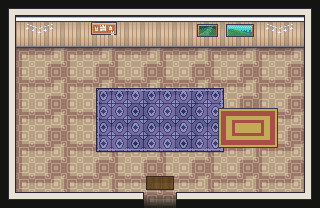
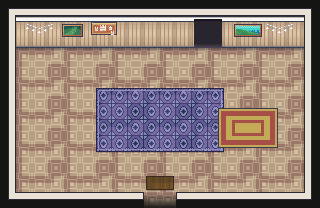
恢复我的房间在入口厅楼上的结构；玻璃门开门不再冒出墙顶，门后显示幽暗门洞

Changed region(s): [[0.5938, 0.0865, 0.8438, 0.2308], [0.1875, 0.1154, 0.2812, 0.2019]]

diff --git a/frontend/components/chatworld/lobby/chat-lobby.tsx b/frontend/components/chatworld/lobby/chat-lobby.tsx
@@ -17,9 +17,9 @@ type Phase = "loading" | "ready" | "error";
 
 /** 每个房间的一句话引导 */
 const ROOM_GUIDES: Record<string, string> = {
-  foyer: "入口厅 · 穿过下方的门进入大厅",
-  room: "我的房间 · 站到衣柜前的地台上按 E 换形象、改名字，下方出口回大厅",
-  hall: "大厅 · 上方两扇玻璃门：左通我的房间、右回入口厅；ASR / OCR 地台与圆桌地毯上按 E 使用",
+  foyer: "入口厅 · 下方出口通往大厅，电梯右侧的玻璃门通往我的房间",
+  room: "我的房间 · 站到衣柜前的地台上按 E 换形象、改名字，下方出口回入口厅",
+  hall: "大厅 · ASR / OCR 机器前的地台、圆桌地毯上按 E 使用",
 };
 
 /** 在「我的房间」衣柜前交互时打开形象面板，其余机器打开功能面板 */

diff --git a/scripts/build_chat_lobby_assets.py b/scripts/build_chat_lobby_assets.py
@@ -229,8 +229,11 @@ def build_anims() -> None:
             # 自动门：靠近时播放 open 帧序列，离开时播放 close 帧序列
             a[key]["door"] = door
 
-    add("door_glass", load(ANIM_DIR + "animated_door_glass_double.png"), 32, 48, 14,
-        door={"open": [0, 1, 2, 3, 4], "close": [5, 6, 7, 0]})
+    # 玻璃双开门：开门时门扇向上收起；原图开门帧的门扇会冒出墙顶，按关门状态的上沿（y=19）裁掉其上方像素，
+    # 门扇看起来是收进门楣
+    door = load(ANIM_DIR + "animated_door_glass_double.png").copy()
+    door.paste((0, 0, 0, 0), (0, 0, door.width, DOOR_TOP))
+    add("door_glass", door, 32, 48, 14, door={"open": [0, 1, 2, 3, 4], "close": [5, 6, 7, 0]})
     add("elevator", load(ANIM_DIR + "animated_elevator_door_entrance_1.png"), 32, 32, 10)
     add("receptionist", load(ANIM_DIR + "animated_receptionist.png"), 16, 32, 5)
     add("monitor", load(ANIM_DIR + "animated_control_room_facebook_scrolling.png"), 16, 32, 4)
@@ -255,6 +258,7 @@ def build_anims() -> None:
 # ---------------------------------------------------------------- 房间绘制
 
 VOID = (20, 20, 19, 255)          # 与页面背景 #141413 一致，房间外融入舞台
+DOOR_TOP = 19                     # 玻璃双开门关门时的上沿（门贴图内 y）
 OUTLINE = (43, 40, 52, 255)       # 墙顶描边
 CAP = (233, 226, 212, 255)        # 墙顶（俯视看到的墙厚）
 SHADOW = (24, 18, 30)
@@ -373,6 +377,17 @@ class Room:
         if inner:
             d.ellipse((x0 + 3, y0 + 3, x1 - 4, y1 - 4), outline=(*inner, 255))
 
+    def door_recess(self, x: int, y: int = 0) -> None:
+        """上墙玻璃门背后的门洞：门打开后看到的是幽暗的通道而不是墙面。
+        门贴图 32x48 放在 (x, y)，两侧门框各 2px，门洞取门框之间、关门上沿以下的区域。"""
+        x0, y0, x1, y1 = x + 2, y + DOOR_TOP, x + 30, y + 48
+        d = ImageDraw.Draw(self.bg)
+        d.rectangle((x0, y0, x1 - 1, y1 - 1), fill=(40, 37, 46, 255))
+        # 门楣投影：上沿两行更暗；底部几行略亮，暗示门外的地面
+        d.rectangle((x0, y0, x1 - 1, y0 + 1), fill=(24, 22, 28, 255))
+        for i, color in enumerate(((50, 46, 56), (58, 54, 64), (66, 61, 72), (72, 67, 78))):
+            d.line((x0, y1 - 4 + i, x1 - 1, y1 - 4 + i), fill=(*color, 255))
+
     def decal(self, key: str, x: int, y: int) -> None:
         self.bg.alpha_composite(DECALS[key], (x, y))
 
@@ -442,18 +457,22 @@ def t(n: float) -> int:
 
 
 def build_foyer() -> Room:
-    """入口厅（电梯厅）：电梯进入，前台接待，右侧等候区，下墙中间开口通往大厅。"""
+    """入口厅（电梯厅）：电梯进入，前台接待，右侧等候区，下墙中间开口通往大厅；
+    上墙电梯右侧玻璃门通往楼上「我的房间」（房间下方出口出来即回到这扇门下）。"""
     room = Room("foyer", "入口厅", 20, 13, floor_tex(4, 8), wall_tex(1, 26))
     exit_x0, exit_x1 = t(9), t(11)
     room.bottom_openings.append((exit_x0, exit_x1))
+    room_door_x = t(12)
+    room.top_openings.append((room_door_x + 4, room_door_x + 28))
     room.draw_shell()
     w, h = room.w, room.h
 
     # 墙面挂饰
     room.decal("string_lights", t(1.5), 18)
     room.decal("cork_board", t(5.5), 22)
-    room.decal("painting_forest", t(12) + 5, 24)
-    room.decal("painting_aqua", t(14) + 2, 24)
+    # 两幅挂画让出电梯右侧的门位：森林挂到软木板左侧，海景挂到门与彩灯之间
+    room.decal("painting_forest", 62, 24)
+    room.decal("painting_aqua", 234, 24)
     room.decal("string_lights", t(16.5), 18)
     # 地毯：中央迎宾毯 + 等候区 + 出口地垫
     room.rug((t(6), t(5.5), t(14), t(9.5)), floor_tex(8, 20), edge=(40, 36, 70), inner=(150, 140, 200))
@@ -491,10 +510,17 @@ def build_foyer() -> Room:
     room.signs.append({"x": (exit_x0 + exit_x1) // 2, "y": h - 54, "text": "大厅", "tone": "muted"})
     room.portals.append({"rect": [exit_x0, h - 10, exit_x1 - exit_x0, 10], "to": "hall", "spawn": "fromFoyer"})
 
+    # 上墙玻璃门：通往「我的房间」，门上标牌 + 门内向上箭头，走近自动开门
+    room.door_recess(room_door_x)
+    room.doors.append({"key": "door_glass", "x": room_door_x, "y": 0, "radius": 40})
+    room.portals.append({"rect": [room_door_x + 6, 22, 20, 20], "to": "room", "spawn": "fromFoyer"})
+    room.signs.append({"x": room_door_x + 16, "y": 8, "text": "我的房间", "tone": "muted"})
+    room.anim("arrow_up", room_door_x + 8, 50, depth=h + 100)
 
     room.spawns["start"] = {"x": t(10), "y": t(3) + 10, "dir": "down"}
     # 回到入口厅时站在出口标牌与箭头之外，避免标牌压在角色头上
     room.spawns["fromHall"] = {"x": t(10), "y": h - 62, "dir": "up"}
+    room.spawns["fromRoom"] = {"x": room_door_x + 16, "y": 96, "dir": "down"}
     room.build_walls()
     return room
 
@@ -514,39 +540,32 @@ def workstation(room: Room, x: int, y: int, accessory: str) -> None:
 
 
 def build_hall() -> Room:
-    """大厅：上墙中间玻璃门回入口厅，其左侧同款玻璃门通往「我的房间」；左上 4 工位，右上 ASR / OCR 两台机器，
-    右侧圆桌聊天角（聊天室），左下休息区，右下游戏角。"""
+    """大厅：上墙中间玻璃门入口；左上 4 工位，右上 ASR / OCR 两台机器，右侧圆桌聊天角（聊天室），左下休息区，右下游戏角。"""
     room = Room("hall", "大厅", 36, 24, floor_tex(4, 12), wall_tex(23, 24))
     door_x = t(17)
-    room_door_x = door_x - 44
     room.top_openings.append((door_x + 4, door_x + 28))
-    room.top_openings.append((room_door_x + 4, room_door_x + 28))
     room.draw_shell()
     w, h = room.w, room.h
 
     # ---- 上墙挂饰
     room.decal("window_curtain", t(3.5), 18)
     room.decal("world_map", t(7), 16)
-    # 窗与软木板略微左移，给「我的房间」门让位
-    room.decal("window_curtain", t(10) - 4, 18)
-    room.decal("cork_board", t(12) + 2, 22)
+    room.decal("window_curtain", t(10), 18)
+    room.decal("cork_board", t(13), 22)
 
     # ---- 入口：玻璃双开门 + 红色迎宾长毯 + 两侧绿植
+    room.door_recess(door_x)
     room.doors.append({"key": "door_glass", "x": door_x, "y": 0, "radius": 40})
     room.portals.append({"rect": [door_x + 6, 22, 20, 20], "to": "foyer", "spawn": "fromHall"})
     room.rug((door_x + 2, 48, door_x + 30, t(13)), floor_tex(4, 14), edge=(70, 30, 30), inner=(214, 160, 90))
+    room.prop("plant_tall2", door_x - 18, 16, foot=12)
     room.prop("plant_tall2", door_x + 34, 16, foot=12)
-
-    # 「我的房间」门：与入口同款玻璃双开门，走近自动开门；门上标牌 + 门内向上箭头
-    room.doors.append({"key": "door_glass", "x": room_door_x, "y": 0, "radius": 40})
-    room.portals.append({"rect": [room_door_x + 6, 22, 20, 20], "to": "room", "spawn": "fromHall"})
-    room.signs.append({"x": room_door_x + 16, "y": 8, "text": "我的房间", "tone": "muted"})
-    room.anim("arrow_up", room_door_x + 8, 50, depth=h + 100)
     room.anim("arrow_up", door_x + 8, 50, depth=h + 100)
     room.signs.append({"x": door_x + 16, "y": 8, "text": "入口厅", "tone": "muted"})
 
     # ---- 左上：工位区（浅灰地毯 + 2x2 工位）
     room.prop("bookshelf", t(1), 16, foot=16)
+    room.prop("plant_tall", t(14.5), 16, foot=12)
     room.rug((t(2), t(5), t(15), t(14.5)), floor_tex(0, 36), edge=(70, 68, 80), inner=(196, 194, 204))
     workstation(room, t(3), t(6.5), "lamp_desk_blue")
     workstation(room, t(9), t(6.5), "plant_desk")
@@ -631,13 +650,12 @@ def build_hall() -> Room:
 
     room.prop("plant_big", t(1), t(13) - 6, foot=14)
     room.spawns["fromFoyer"] = {"x": door_x + 16, "y": 96, "dir": "down"}
-    room.spawns["fromRoom"] = {"x": room_door_x + 16, "y": 96, "dir": "down"}
     room.build_walls()
     return room
 
 
 def build_room() -> Room:
-    """我的房间：大厅玻璃门旁的小卧室。下墙中间开口出去，从大厅上墙「我的房间」玻璃门下出现；
+    """我的房间：入口厅楼上的小卧室。下墙中间开口出去，从入口厅上墙的玻璃门下出现；
     衣柜 + 穿衣镜前的地台按 E 打开「形象与名字」。"""
     room = Room("room", "我的房间", 12, 10, floor_tex(0, 24), wall_tex(23, 28))
     exit_x0, exit_x1 = t(5), t(7)
@@ -673,10 +691,10 @@ def build_room() -> Room:
     # 出口：门口地垫 + 「入口厅」标牌与向下箭头
     room.rug((exit_x0 + 2, h - 32, exit_x1 - 2, h - 18), floor_tex(12, 26), edge=(60, 40, 30))
     room.anim("arrow_down", (exit_x0 + exit_x1) // 2 - 8, h - 50, depth=h + 100)
-    room.signs.append({"x": (exit_x0 + exit_x1) // 2, "y": h - 54, "text": "大厅", "tone": "muted"})
-    room.portals.append({"rect": [exit_x0, h - 10, exit_x1 - exit_x0, 10], "to": "hall", "spawn": "fromRoom"})
-    # 进门后站在「大厅」标牌上方，标牌与箭头不压在角色身上
-    room.spawns["fromHall"] = {"x": (exit_x0 + exit_x1) // 2, "y": h - 62, "dir": "up"}
+    room.signs.append({"x": (exit_x0 + exit_x1) // 2, "y": h - 54, "text": "入口厅", "tone": "muted"})
+    room.portals.append({"rect": [exit_x0, h - 10, exit_x1 - exit_x0, 10], "to": "foyer", "spawn": "fromRoom"})
+    # 进门后站在「入口厅」标牌上方，标牌与箭头不压在角色身上
+    room.spawns["fromFoyer"] = {"x": (exit_x0 + exit_x1) // 2, "y": h - 62, "dir": "up"}
     room.build_walls()
     return room
 
@@ -828,12 +846,12 @@ def main() -> None:
     room = build_room()
     hall = build_hall()
 
-    # 世界排布：上一行左为我的房间、右为入口厅，大厅在入口厅正下方（我的房间从大厅上墙的门进出）。
+    # 世界排布：自上而下 我的房间 → 入口厅 → 大厅，水平居中对齐。
     # 房间之间留足间距：小房间在大屏上居中显示时，相机视野会超出房间，不能看到相邻房间。
     gap = 256
-    room_off = (0, 0)
-    foyer_off = (room.w + gap, 0)
-    hall_off = (foyer_off[0] + (foyer.w - hall.w) // 2, max(room.h, foyer.h) + gap)
+    foyer_off = (0, room.h + gap)
+    room_off = ((foyer.w - room.w) // 2, 0)
+    hall_off = ((foyer.w - hall.w) // 2, foyer_off[1] + foyer.h + gap)
     placed = [(room, room_off), (foyer, foyer_off), (hall, hall_off)]
     shift_x = -min(off[0] for _, off in placed)
     placed = [(r, (x + shift_x, y)) for r, (x, y) in placed]

diff --git a/spec.md b/spec.md
@@ -101,11 +101,11 @@ HannisHub/
   - 已读回执（类似飞书群聊）：每个浏览器维护单调递增的「已读到的消息编号」游标，保存在 `data/chat_room_reads.json`（最多 1,000 条，超出丢弃最久未更新者）。页面可见时，客户端取消息列表可视区域内最靠下的一条作为已读位置，随 2 秒轮询以 `read_up_to` 上报，滚动、切回页面或渲染出新消息时立即补报；页面隐藏、后台提醒轮询不上报。服务端游标只增不减，且不超过最新消息编号；发送者发消息视为已读到该条。**应读人群**在消息发送时快照：取发送前 10 分钟内「同时在线人数最多的那一刻」的在线 client_id 集合（人数相同取最近一次），去掉发送者本人，保存在消息的 `audience` 字段（不返回给客户端）；在线变化记录只保存在内存，服务重启后窗口重新累积。只有发送者能看到自己消息的回执：消息下方显示饼图与「N 人未读 / 全部已读」，点击弹出未读/已读名单。应读人群为空的消息与没有快照的旧消息不显示回执；不在应读人群中的人后来阅读不计入比例。回执随 `reads_version` 变化才返回（只含自己最近 200 条消息）
   - 图片与文件：点回形针选择、拖入聊天区域或在输入框粘贴即可发送，每个文件一条消息，单个不超过 50 MB。本地立即显示（图片显示本地预览）并显示上传进度，上传完成后随消息发送；失败可重试或删除。PNG / JPEG / GIF / WebP 显示为缩略图（按原始比例预留尺寸，点击查看大图），其余类型显示为带文件名、大小与下载按钮的文件卡片。附件保存在 `data/chat_room_files/`，上传超过 24 小时仍未被消息引用的文件在下次上传时清理
 - `/chat-lobby`：聊天大厅，2D 像素俱乐部风格单人场景（Phaser 3），全部使用付费素材 Limezu Modern Interiors 的 16×16 原生规格，3/4 俯视、16px Tile、整数倍缩放（2×～4×，房间能完整放下时居中静止，否则平滑跟随角色，相机限定在当前房间并留 12px 暗边）。场景由三个房间组成（我的房间见下文）：**入口厅**（电梯厅，20×13 格，进入时上墙电梯开合一次，左侧前台与动画接待员，右侧等候区，下墙中间开口带「大厅」指示与下箭头）与**大厅**（36×24 格，上墙中间玻璃双开门，走近自动开门）。从入口厅向下穿过开口、或从大厅走进上墙玻璃门，相机淡出淡入后切换到另一房间。大厅布置：入口红色迎宾长毯；左上工位区（浅灰地毯上 2×2 共 4 个工位，每个工位为 64px 长桌 + 双屏滚动动画显示器 + 台灯/绿植/咖啡 + 转椅）；右上机器区两台可见机器——**ASR 录音台**（音箱、音频工作台、机柜、挂墙声纹屏、录音话筒，紫色地台）与 **OCR 文档终端**（自助扫描终端、挂墙文档屏、复印机、纸篓，蓝色地台），机器上方悬浮名称铭牌；右侧**圆桌聊天角**（椭圆地毯 + 木圆桌 + 四张高脚凳，站上地毯按 E 打开内嵌聊天室）、鱼缸；左下休息区（单人椅围合圆桌、睡猫、落地灯、书柜）；中下咖啡角；右下游戏角（街机、弹珠机、台球桌）。站在机器前的地台上，角色头顶出现「E」提示、舞台底部出现使用提示条，按 E（或空格；触屏点「使用」）弹出大尺寸对话框，内嵌原 `/llama/asr`、`/llama/ocr` 页面组件（`AsrPanel` / `OcrPanel`，按需动态加载），Esc、关闭按钮或点击遮罩返回大厅，对话框右上角可跳转独立页面。面板打开或页面输入框获得焦点时，游戏冻结角色并关闭 Phaser 全局按键拦截，保证输入框可以正常输入 WASD/E/空格。角色贴图为 6 列 × 8 行、每帧 16×32（静止与行走四方向各 6 帧），行走 10fps、静止 4fps；WASD/方向键移动（斜向归一化），墙体、家具具备碰撞体积，家具与角色按底边 y 排序处理前后遮挡；触屏设备显示方向垫。本轮仍为单人场景，不含多人同步与工位就座。**布局与素材由构建脚本 `scripts/build_chat_lobby_assets.py` 统一生成**：脚本从本机素材包（`chatworld/asset/modern_interiors/`，不入库）裁剪单件、程序化绘制墙顶收边/墙脚阴影/区域地毯并烘焙两个房间背景，打包家具图集（Phaser JSON Hash），导出动画帧条，并输出 `layout.json`（房间偏移、家具坐标与碰撞盒、动画物件、门、传送门、出生点、机器交互区与铭牌）；`--preview` 可额外输出带碰撞标注的整图预览。前端只读取 `layout.json` 搭建场景，调整布局无需改前端代码。运行时素材位于 `frontend/public/chat-lobby/club/`（`foyer.png`、`hall.png`、`objects.png/json`、`anims/`、`player.png`、`layout.json`、许可证副本 `LICENSE.txt`），派生清单与署名见 `frontend/public/chat-lobby/CREDITS.md`，素材包速查索引见 `chatworld/asset/asset_index.md`；页面底部署名 LimeZu。
-  - **我的房间**（12×10 格，从大厅进出：大厅上墙原玻璃门（回入口厅）左侧新增一扇同款玻璃双开门，门上「我的房间」标牌、门内向上箭头，走近自动开门；房间出口在下墙中间，带地垫、「大厅」标牌与向下箭头，出去后从大厅那扇「我的房间」门下出现。为给门让位，大厅上墙的窗与软木板略左移，门旁两盆绿植移除；入口厅保持原样）：单人床、床头柜与台灯、窗帘窗、衣柜 + 穿衣镜、书架、落地灯、扶手椅与小圆桌、睡猫。衣柜前的地台为交互区，铭牌「形象与名字」，按 E 打开**形象与名字**面板：左侧为放大 6 倍的动画预览（可左右转身、切换走动/站立），头顶显示名字标签，下方为名字输入框（最多 16 字）；右侧按 肤色 / 眼睛 / 服装 / 发型 / 配饰 分页列出款式缩略图（缩略图为「当前搭配 + 该款式」的正面形象，发型与配饰可选「不戴」），选中款式后下方列出该款全部配色；底部有「随机搭配」「恢复默认角色」「取消」「保存」。保存后场景中的角色立即换装。名字用于多人同场时显示在其他人看到的角色头顶，自己在场景中看不到自己的名字（当前仍为单人场景，本地角色不渲染名字）。
+  - **我的房间**（12×10 格，位于入口厅楼上：入口厅上墙电梯右侧的玻璃门（门上「我的房间」标牌、门内向上箭头，走近自动开门）进入；房间出口在下墙中间，带地垫、「入口厅」标牌与向下箭头，出去后从入口厅上墙那扇玻璃门下出现）：单人床、床头柜与台灯、窗帘窗、衣柜 + 穿衣镜、书架、落地灯、扶手椅与小圆桌、睡猫。衣柜前的地台为交互区，铭牌「形象与名字」，按 E 打开**形象与名字**面板：左侧为放大 6 倍的动画预览（可左右转身、切换走动/站立），头顶显示名字标签，下方为名字输入框（最多 16 字）；右侧按 肤色 / 眼睛 / 服装 / 发型 / 配饰 分页列出款式缩略图（缩略图为「当前搭配 + 该款式」的正面形象，发型与配饰可选「不戴」），选中款式后下方列出该款全部配色；底部有「随机搭配」「恢复默认角色」「取消」「保存」。保存后场景中的角色立即换装。名字用于多人同场时显示在其他人看到的角色头顶，自己在场景中看不到自己的名字（当前仍为单人场景，本地角色不渲染名字）。
   - **像素形象**：使用素材包角色生成器（`2_Characters/Character_Generator`）的分层部件，构建脚本把 身体 9 / 眼睛 7 / 服装 132（33 款）/ 发型 200（29 款）/ 配饰 84（19 款）共 432 个部件的静止与行走帧重排为与 `player.png` 相同的 96×256 块，按类别打成 5 张图集 `avatar/{body,eyes,outfit,hair,accessory}.png`（每行 16 块）并输出清单 `avatar/parts.json`（部件编号、款式、配色）。前端 `game/avatar.ts` 按 身体 → 眼睛 → 服装 → 发型 → 配饰 顺序在画布上叠层合成帧表；Phaser 场景使用一张常驻画布贴图 `avatar-self`，形象变化时重绘并刷新，角色动画按皮肤贴图分组（`player:*` / `avatar-self:*`），切换时保留当前动作与朝向。资料未设置形象时沿用默认角色 `player.png`。页面先读取资料、合成好形象再创建游戏，避免默认角色闪现。
-  - **出口指引**：每个出口都有标牌 + 动画箭头（沿用入口厅下方「大厅」出口的样式）：入口厅下方「大厅」↓、我的房间下方「大厅」↓、大厅上墙两扇玻璃门上方分别为「我的房间」「入口厅」标牌，门内各有 ↑（各出生点都放在出口标牌与箭头之外：大厅出生点在向上箭头下方，回到入口厅、进入我的房间时站在标牌上方或侧面，标牌不压在角色身上）。向上箭头取自素材包 UI 动画。
+  - **出口指引**：每个出口都有标牌 + 动画箭头（沿用入口厅下方「大厅」出口的样式）：入口厅下方「大厅」↓、入口厅上墙玻璃门「我的房间」↑、我的房间下方「入口厅」↓、大厅上墙玻璃门上方「入口厅」标牌与门内 ↑（各出生点都放在出口标牌与箭头之外：大厅出生点在向上箭头下方，回到入口厅、进入我的房间时站在标牌上方或侧面，标牌不压在角色身上）。向上箭头取自素材包 UI 动画。
   - **圆桌聊天角**：大厅右侧原吧台改为木圆桌，四周四张高脚凳，下方铺程序化椭圆地毯（与其他区域地毯同样由脚本绘制），悬浮铭牌「聊天室」。站上地毯按 E 打开大尺寸对话框，内嵌原 `/chat` 聊天室组件（铺满对话框、隐藏重复标题，可跳转独立页面）。内嵌期间通过 `setChatEmbedded` 暂停 AppShell 的后台新消息检查，避免对正在阅读的消息弹提示条、响提示音，关闭后按已读位置恢复未读计数；聊天组件内的 Esc（关闭表情面板、大图预览、已读详情）标记为已处理，只关闭该浮层而不连带关闭对话框。
-  - 世界排布：上一行左为我的房间、右为入口厅，大厅在入口厅正下方，各房间间隔 256px，保证小房间在大屏居中显示时相机视野内看不到相邻房间。玻璃门的开门/关门帧序列由 `layout.json` 中动画的 `door` 字段给出；只播放一次的帧条（电梯）不循环。交互键 E / 空格在 keydown 事件中置位，避免按下与抬起落在同一帧时被漏掉。相机边距：房间本身放得下、只是加上 12px 边距才超出时，边距收窄到剩余空间，整个房间静止完整显示（避免为几像素边距滚动而裁掉顶部铭牌）。
+  - 世界排布：自上而下依次为我的房间、入口厅、大厅（水平居中对齐，与楼上/楼下的进出方向一致），各房间间隔 256px，保证小房间在大屏居中显示时相机视野内看不到相邻房间。玻璃门的开门/关门帧序列由 `layout.json` 中动画的 `door` 字段给出；玻璃门贴图裁掉关门上沿（y=19）以上的像素，开门时门扇不再冒出墙顶；上墙玻璃门背后烘焙幽暗门洞（`Room.door_recess`：门框之间深色填充、门楣投影、底部渐亮暗示门外地面），门打开后看到的是通道而不是墙面与墙顶白边；只播放一次的帧条（电梯）不循环。交互键 E / 空格在 keydown 事件中置位，避免按下与抬起落在同一帧时被漏掉。相机边距：房间本身放得下、只是加上 12px 边距才超出时，边距收窄到剩余空间，整个房间静止完整显示（避免为几像素边距滚动而裁掉顶部铭牌）。
   - **素材版本**：构建脚本在 `layout.json` 与 `avatar/parts.json` 中写入 `build`（输出内容的短哈希，内容不变则不变）。前端每次加载都绕过缓存重新获取这两个清单（`layout.json?t=时间戳`、`parts.json` 使用 `cache: "no-cache"`），其余素材地址统一带 `?v=<build>`（`assetUrl()`）。静态文件没有缓存头，浏览器可能复用旧文件；版本号保证图集图片与坐标表总是来自同一次构建，否则家具会显示成错误的贴图（位置错乱）。
   - 「形象与名字」保存遇到 404 / 405（后台进程尚未加载资料接口，请求落到根路径静态文件托管上）时提示「后台服务尚未更新，请重启后台服务后再保存」。
 - `/terminal`：网页终端（仅管理员）。顶部横向标签栏列出全部终端，`+` 新建、双击标签重命名、× 关闭（确认后结束其中的程序）；每个终端一个 xterm.js 实例，切换标签不丢状态，尺寸随容器自适应。关闭网页不结束 shell，再次打开自动接回并回放最近输出；多个标签页/设备可同时连接同一终端，输出同步、都能输入；断线指数退避自动重连（最长 10 秒）。标签圆点表示连接状态，底部状态栏显示 PID 与预计释放时间；当前活动标签保存在 `localStorage` 键 `hannishub_terminal_active`。详见下文「网页终端」。页面右下角另有可拖动的浮动提示词按钮（位置记忆在 `hannishub_prompt_float_position`），点击展开仅含输入框、复制、归档的面板，不提供润色；草稿暂存在 `hannishub_prompt_float_draft`（与提示词页草稿互不覆盖），归档调用提示词模块既有的 `POST /prompt/api/prompts`，写入 `prompt_service/settings.json`，与提示词页归档列表共用同一份数据

diff --git a/version.md b/version.md
@@ -1235,3 +1235,9 @@
 - 入口厅恢复原样：去掉上墙「我的房间」玻璃门，两幅挂画回到原位（背景与改动前逐像素一致）。
 - 更新 spec.md 与房间引导文案。
 - 验证：`tsc --noEmit`、eslint 通过，`npm run build` 成功；隔离测试服务 + 无头 Chrome 实测入口厅 → 大厅 → 「我的房间」门 → 我的房间 → 下方出口回到该门下 → 再进房间、再经右侧门回入口厅，无页面错误；线上聊天数据校验和不变。
+
+### v0.2.101 — 2026-11-13
+- 撤回 v0.2.100 的结构：恢复为 我的房间 —（入口厅上墙电梯右侧玻璃门）— 入口厅 — 大厅；大厅去掉新增的门，上墙窗、软木板与两盆绿植回到原位。
+- 优化玻璃门开门效果：门贴图裁掉关门上沿以上的像素，开门过程中门扇不再冒出墙顶；上墙玻璃门背后烘焙幽暗门洞（新增 `Room.door_recess`，大厅入口门与入口厅「我的房间」门都使用），门打开后看到的是通道，不再透出墙面与墙顶白边。
+- 更新 spec.md。
+- 验证：`tsc --noEmit`、eslint 通过，`npm run build` 成功；隔离测试服务 + 无头 Chrome 实测入口厅玻璃门开门后门洞显示正常 → 我的房间 → 下方出口回到入口厅门下 → 再上楼，大厅玻璃门开门效果同样正常、可回入口厅，无页面错误；线上聊天数据校验和不变。
